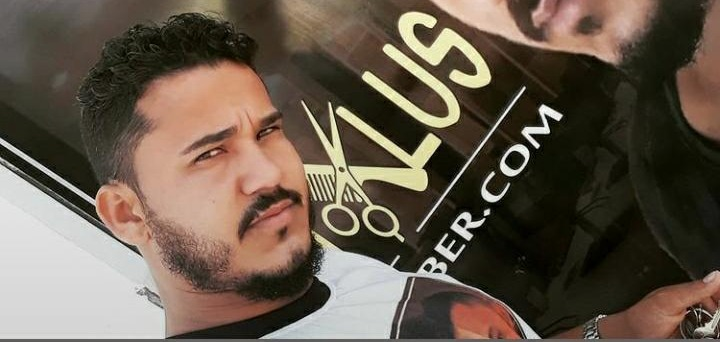
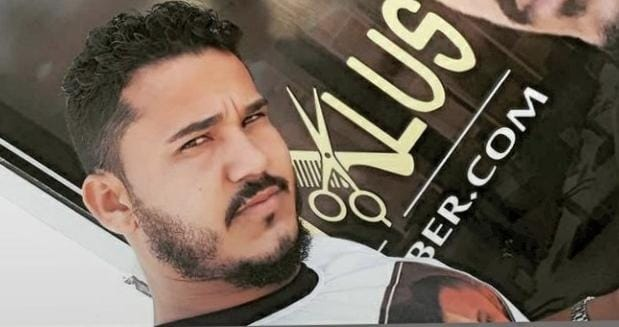
trabalho__pronto

diff --git a/CSS/sobre.css b/CSS/sobre.css
@@ -33,7 +33,7 @@ body {
 #sobre {
     color: white;
     font-family: 'Montserrat';
-    background: linear-gradient(rgba(96, 54, 1, 0.7), rgba(54, 21, 0, 0.7), rgba(28, 10, 0, 0.7)), url('../images/fundo.jpg');
+    background: linear-gradient(rgba(96, 54, 1, 0.7), rgba(54, 21, 0, 0.7), rgba(28, 10, 0, 0.7));
     background-size: 100%;
     text-align: center;
     padding-top: 15%;
@@ -42,6 +42,7 @@ body {
     margin-left: 3%;
     margin-right: 3%;
     border-radius: 10px;
+    border: 2px white solid;
     height: 150px;
 }
 

diff --git a/CSS/principal.css b/CSS/principal.css
@@ -33,7 +33,7 @@ body {
 #principal {
     color: white;
     font-family: 'Montserrat';
-    background: linear-gradient(rgba(68, 34, 2, 0.2), rgba(70, 26, 5, 0.2), rgba(121, 38, 6, 0.2)), url('../IMG/fotoprinicial.jpeg');
+    background: linear-gradient(rgba(56, 22, 1, 0.7), rgba(44, 17, 1, 0.7), rgba(24, 8, 0, 0.7)), url('../IMG/fotoprincipal.png');
     background-size: 100%;
     text-align: center;
     padding-top: 15%;

diff --git a/CSS/contato.css b/CSS/contato.css
@@ -30,10 +30,10 @@ body {
 }
 
 #principal {
-    color: black;
+    color: white;
     font-family: 'Montserrat';
     font-size: 150%;
-    background: url('../IMG/imgcont.jpeg');
+    background: linear-gradient(rgba(56, 22, 1, 0.7), rgba(44, 17, 1, 0.7), rgba(24, 8, 0, 0.7)), url('../IMG/imgcont.jpeg');
     background-size: 100%;
     padding-top: 10%;
     padding-bottom: 15%;

diff --git a/CSS/catalogos.css b/CSS/catalogos.css
@@ -42,6 +42,7 @@ body {
     margin-left: 3%;
     margin-right: 3%;
     border-radius: 10px;
+    border: 2px white solid;
     height: 150px;
 }
 

diff --git a/CSS/localizacao.css b/CSS/localizacao.css
@@ -42,6 +42,7 @@ body {
     margin-left: 3%;
     margin-right: 3%;
     border-radius: 10px;
+    border: 2px white solid;
     height: 150px;
 }
 
